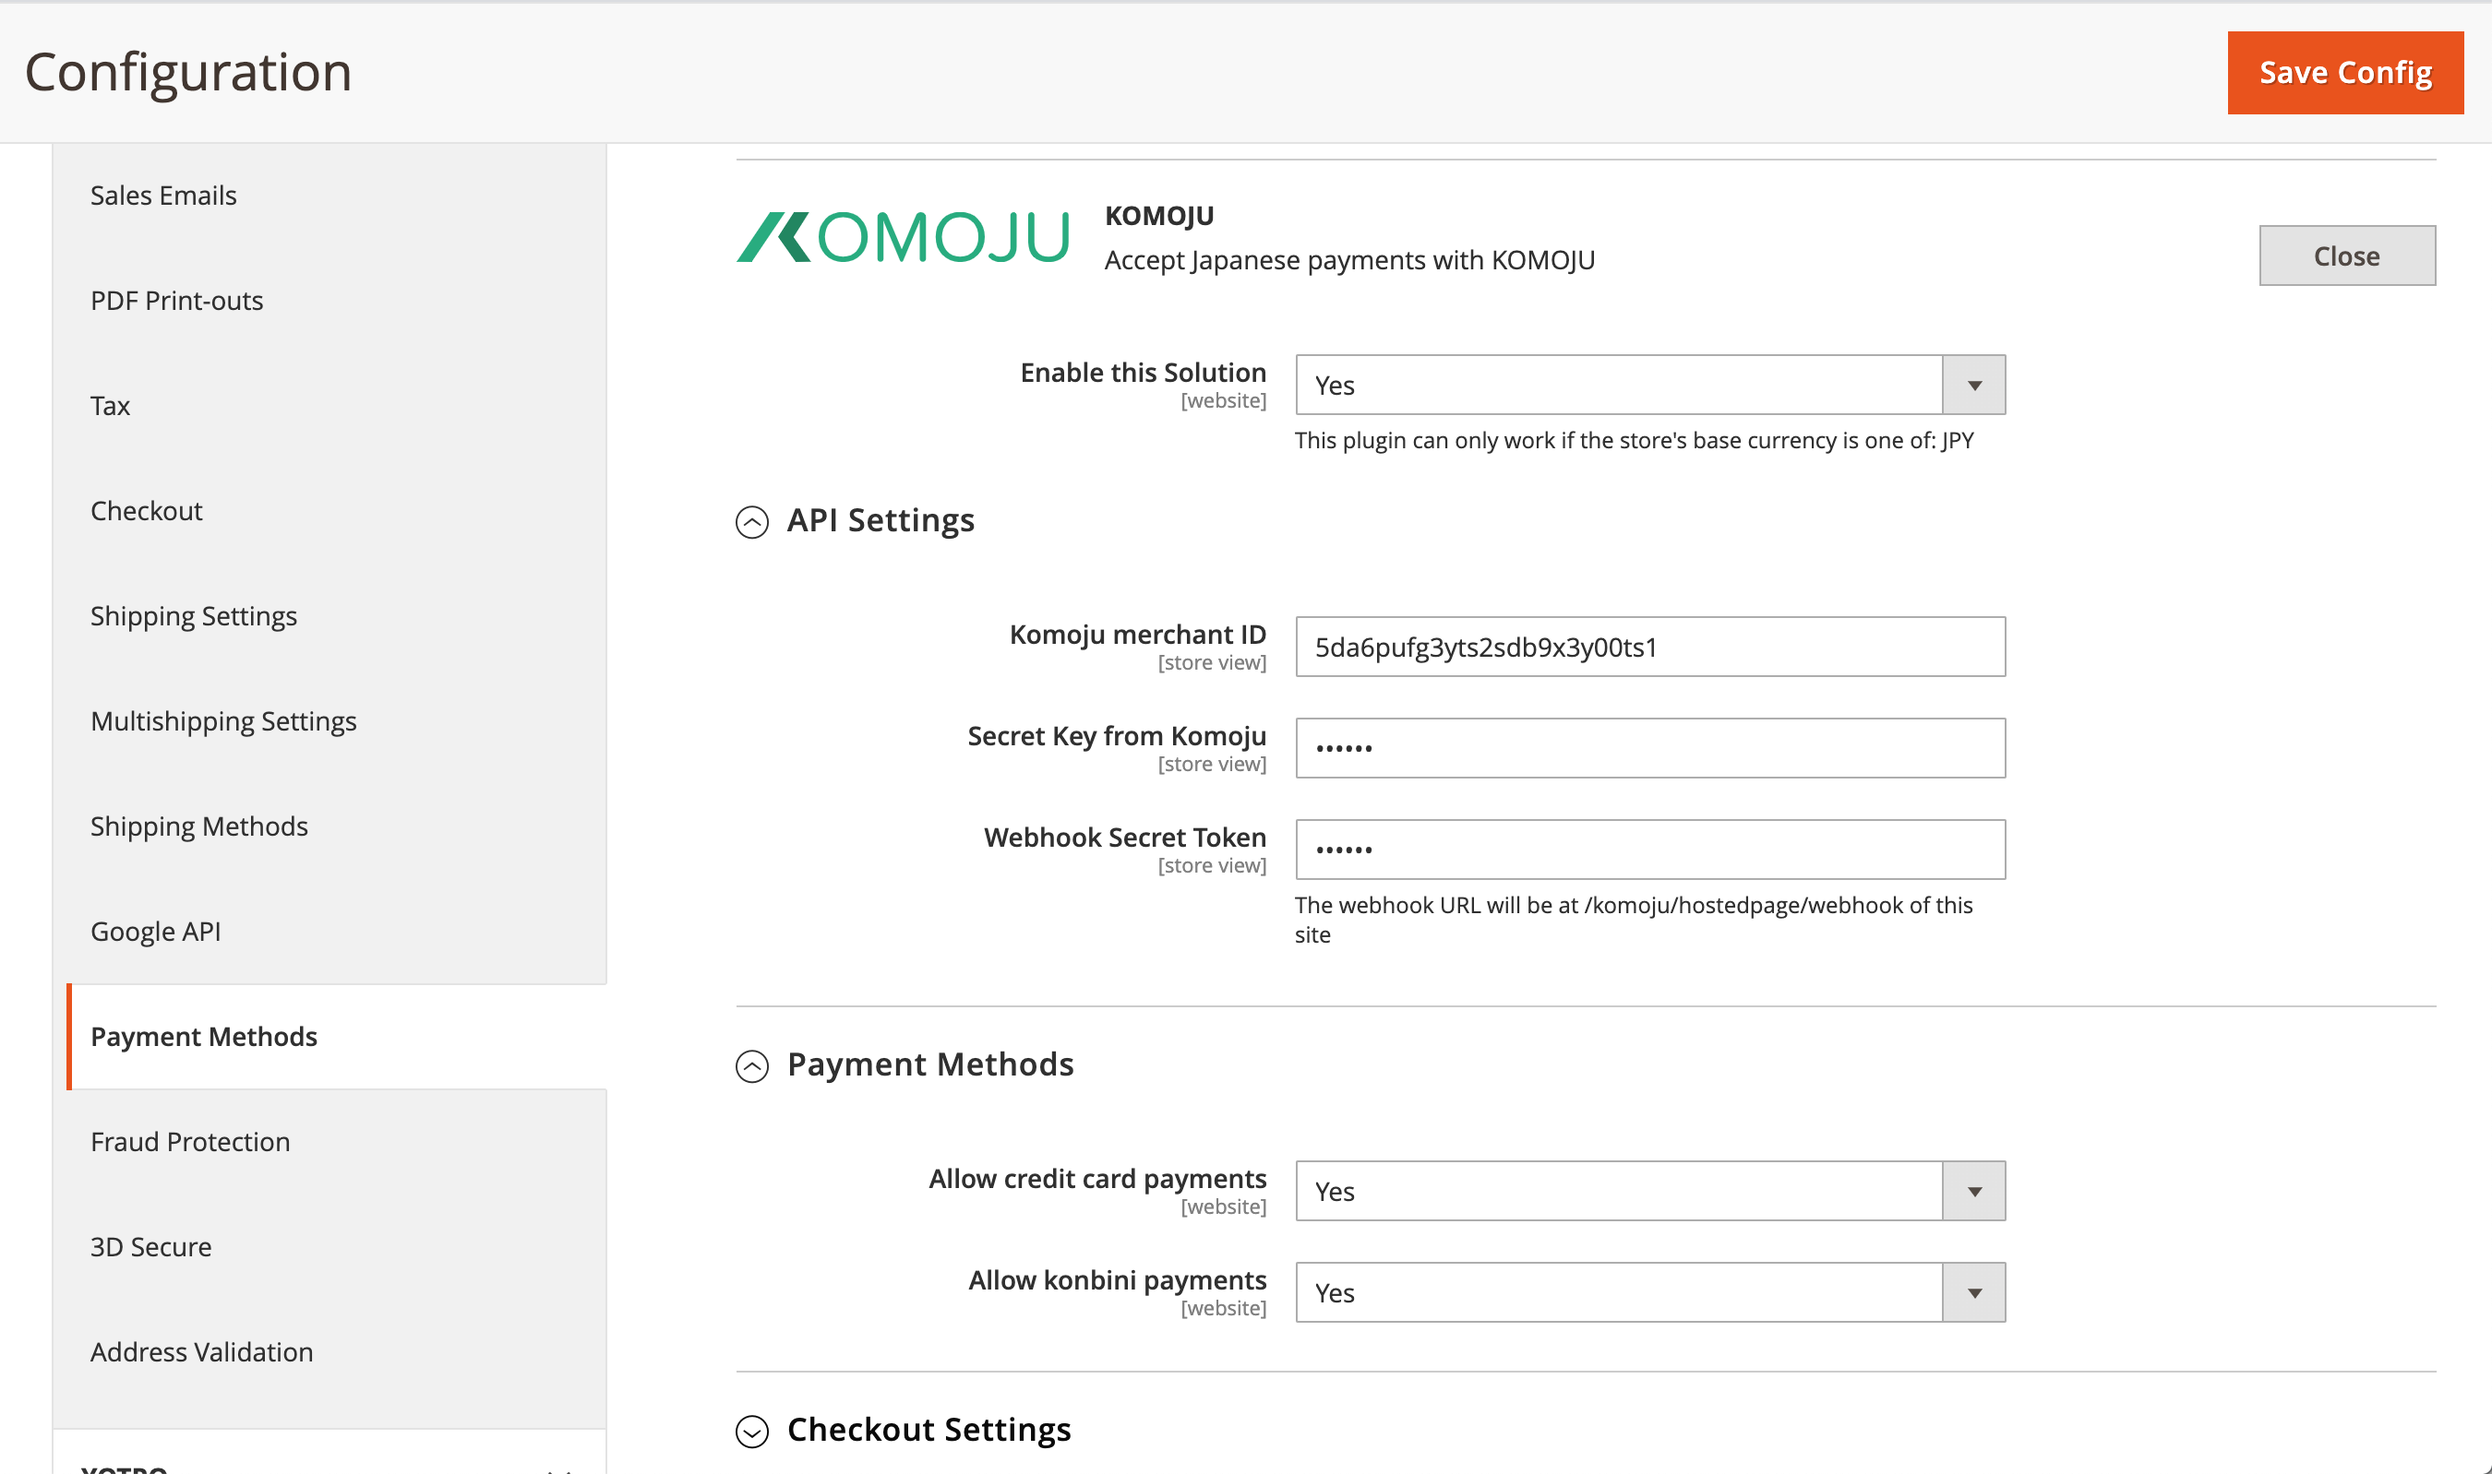
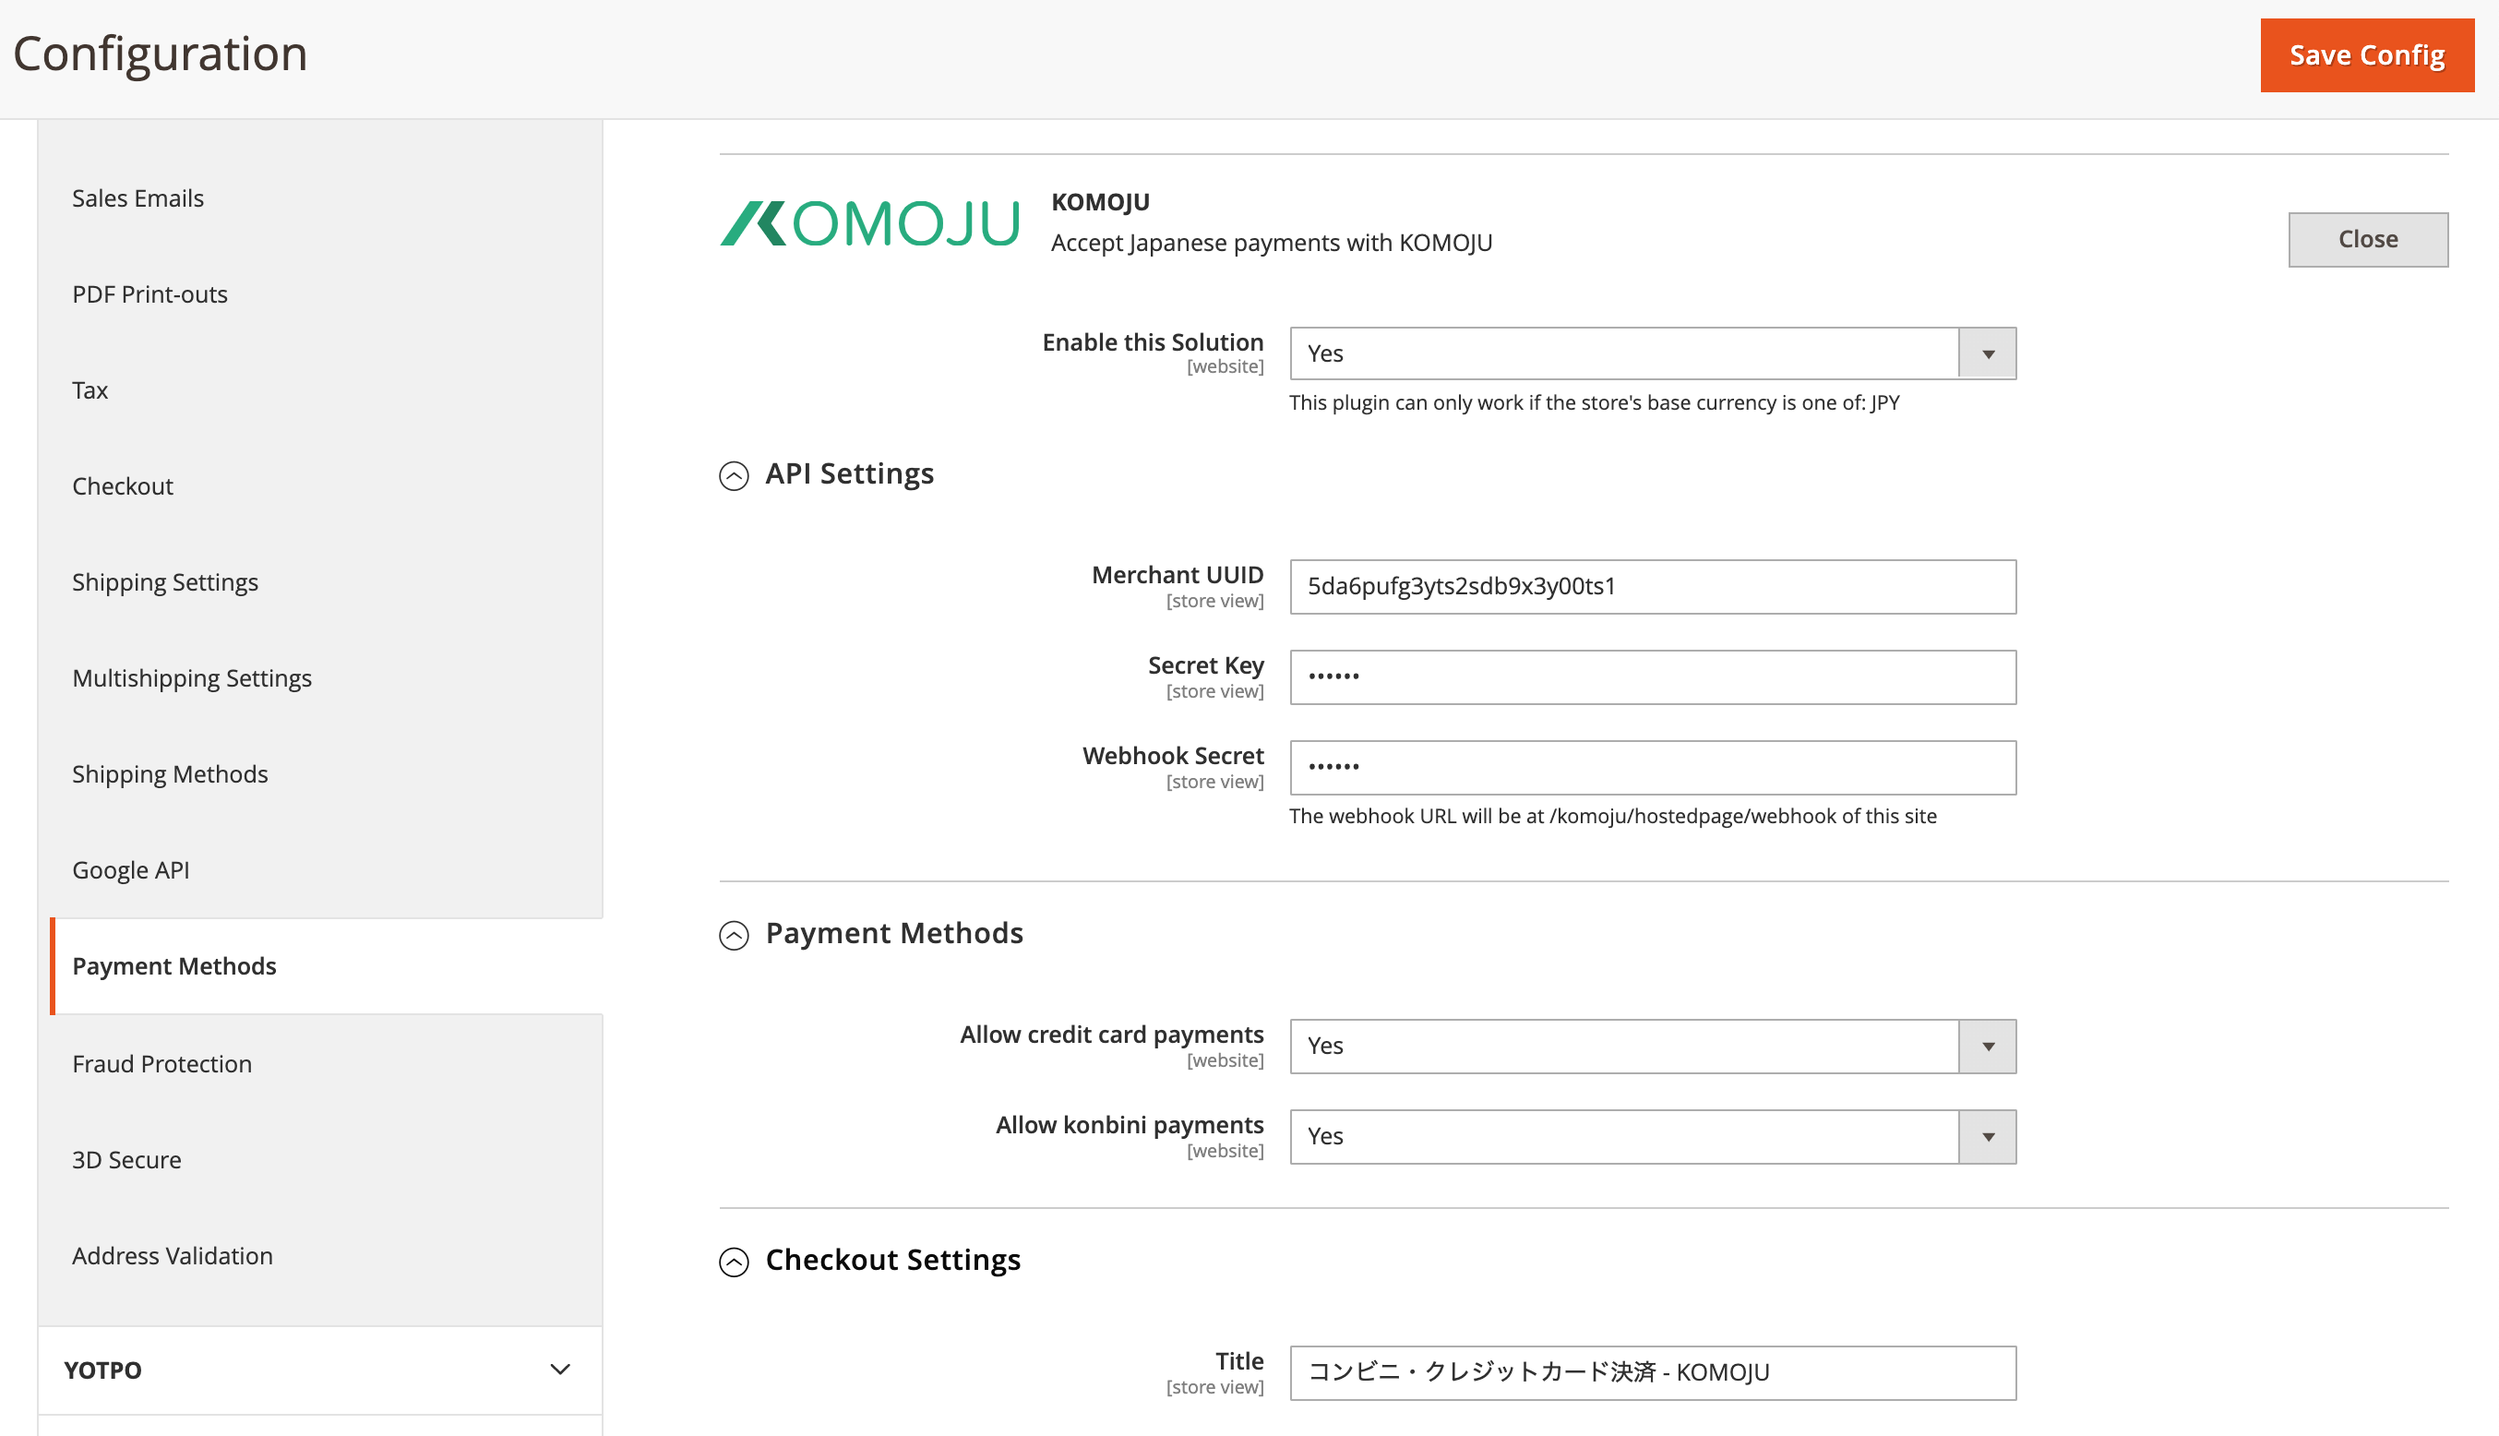
Change API setting field names
Changing the API setting field names to mirror the fields on the
KOMOJU Merchant Settings dashboard. Thi way any users setting up the
plugin with their Magento store don't need to try and figure out which
values they should be using. Updating the screenshot to reflect the new
wording.

diff --git a/README.md b/README.md
@@ -43,8 +43,8 @@ Once the plugin has been installed you will need to configure it. Go to the stor
 
 When configuring the "API Settings" section of the plugin use the following values:
 
-"Komoju merchant ID" in the plugin is "Merchant UUID" in the Merchant Settings dashboard.
-"Secret Key from Komoju" in the plugin is "Secret Key" in the Merchant Settings dashboard.
+"Merchant UUID" in the plugin is "Merchant UUID" in the Merchant Settings dashboard.
+"Secret Key" in the plugin is "Secret Key" in the Merchant Settings dashboard.
 
 ### Configuring the KOMOJU webhook 
 
